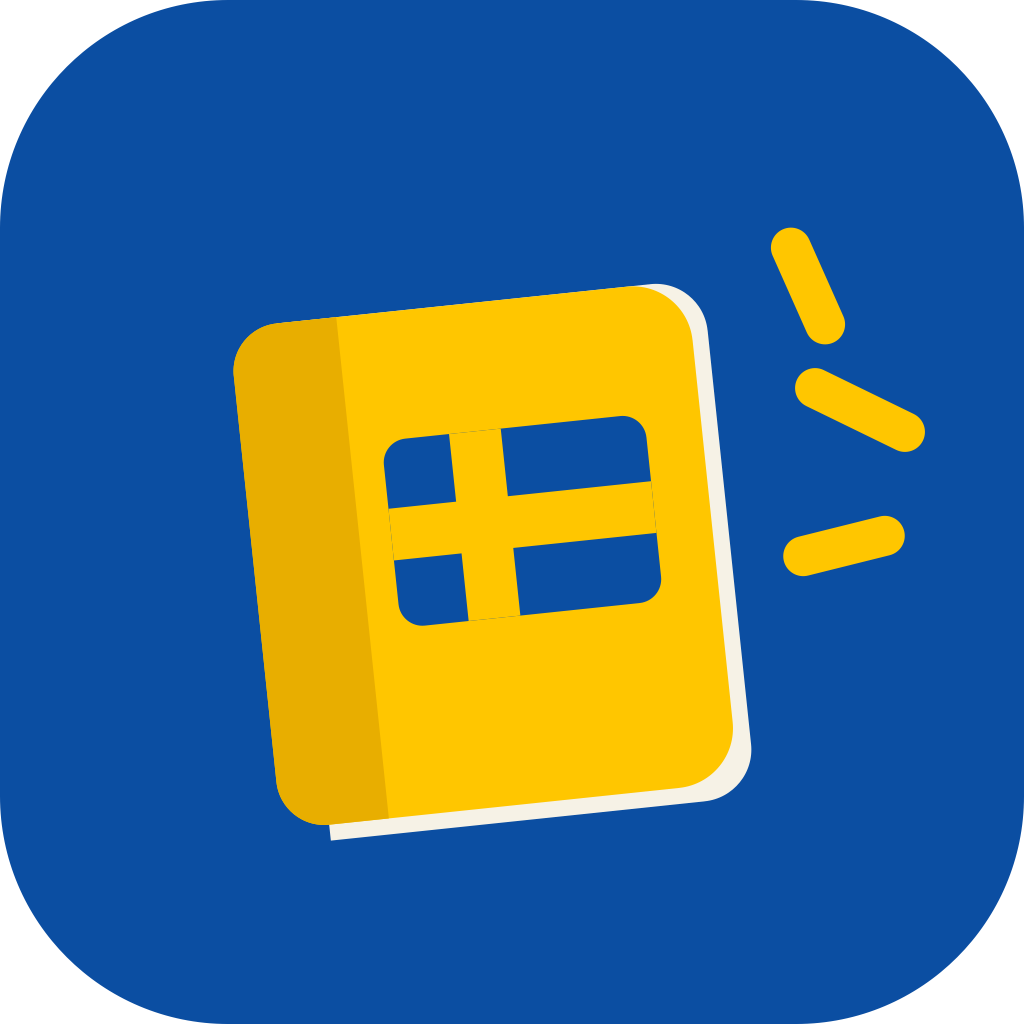
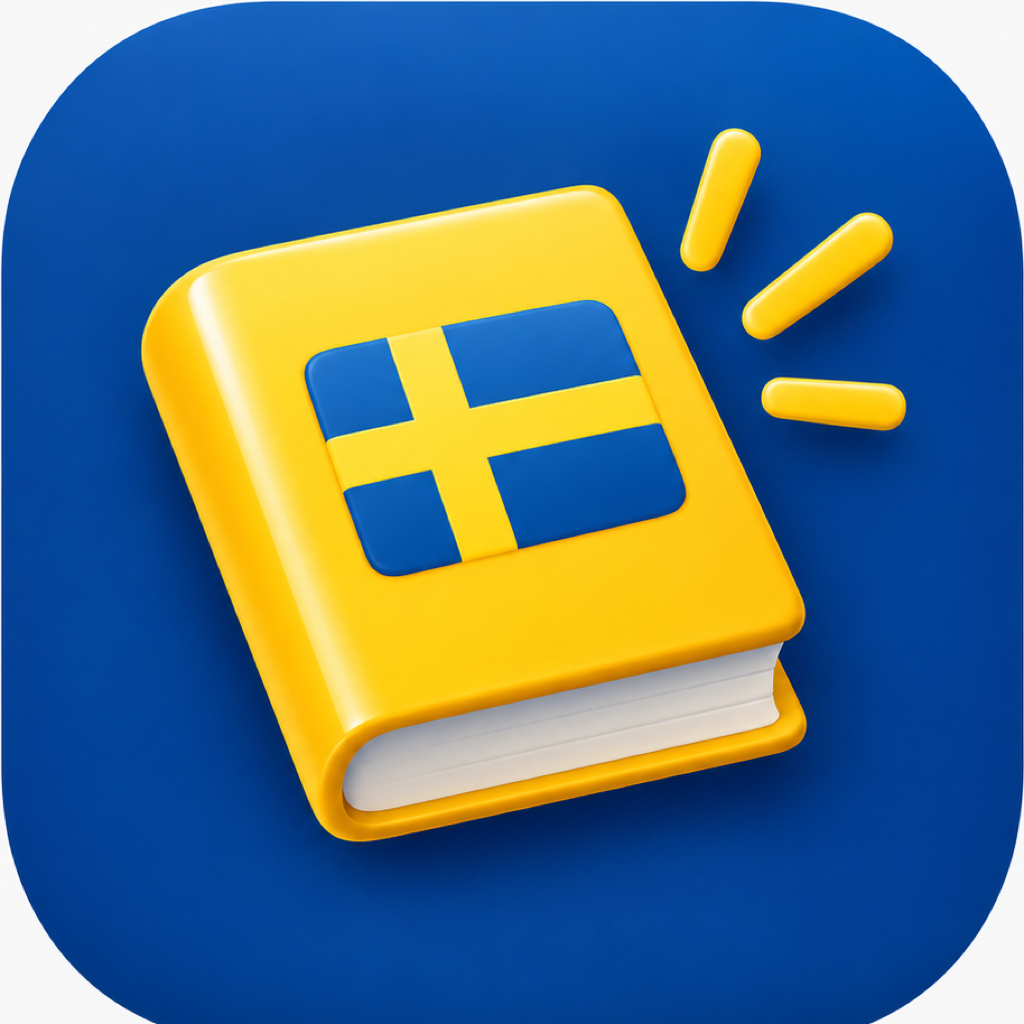
Abisanakirja: oikea ikoni, sovelluksen nimi ja ruotsin aantamisen korjaus

diff --git a/index.html b/index.html
@@ -5,16 +5,16 @@
 <meta name="viewport" content="width=device-width, initial-scale=1, viewport-fit=cover">
 <meta name="theme-color" content="#f1f5fb" media="(prefers-color-scheme: light)">
 <meta name="theme-color" content="#04203f" media="(prefers-color-scheme: dark)">
-<title>Ruotsin sanasto</title>
+<title>Abisanakirja</title>
 <link rel="manifest" href="manifest.webmanifest">
-<link rel="icon" href="ikoni.svg" type="image/svg+xml">
 <link rel="icon" href="ikoni-64-v1.png" sizes="64x64" type="image/png">
+<link rel="icon" href="ikoni-192-v1.png" sizes="192x192" type="image/png">
 <!-- Safari välimuistittaa kotinäytön ikonin tiedostonimen mukaan eikä huomaa
      sisällön muuttumista. Kun ikoni vaihdetaan, nosta versionumero näissä
      nimissä, manifest.webmanifest-tiedostossa ja tyokalut/tee_ikonit.sh:ssä. -->
 <link rel="apple-touch-icon" href="ikoni-180-v1.png">
 <meta name="apple-mobile-web-app-capable" content="yes">
-<meta name="apple-mobile-web-app-title" content="Ruotsi">
+<meta name="apple-mobile-web-app-title" content="Abisanakirja">
 <meta name="apple-mobile-web-app-status-bar-style" content="black-translucent">
 <style>
 /* ==========================================================================
@@ -779,7 +779,7 @@ const oletusEdistyminen = () => ({
   versio: 1,
   kortit: {},
   virheloki: [],
-  asetukset: { aani: true, suodatin: null, naytaLuokka: true },
+  asetukset: { aani: true, aaninimi: null, suodatin: null, naytaLuokka: true },
   istunto: { paiva: null, maara: 0 },
 });
 
@@ -1827,32 +1827,64 @@ function harjoitusNakyma(tehtava, indeksi, kokonais, otsikko, onJatka, onTulos) 
 /* ==========================================================================
    11. Ääntäminen
    ========================================================================== */
-/* Pelkkä lang = "sv-SE" ei riitä: ilman nimettyä ääntä selain käyttää
-   järjestelmän oletusta, joka lausuu ruotsin suomalaisittain. Haetaan ruotsin
-   ääni erikseen, ja kerrotaan asetuksissa jos sitä ei ole asennettuna. */
+/* Ruotsin ääntäminen.
+
+   Pelkkä lang = "sv-SE" ei riitä: ilman nimettyä ääntä selain käyttää
+   järjestelmän oletusta, joka tällä koneella on suomalainen. Kolme muutakin
+   asiaa kaataa äänivalinnan käytännössä:
+
+   1. cancel() ja speak() samalla tikillä – WebKit pudottaa uuden lausuman
+      äänivalinnan ja käyttää oletusta. Uusi lausuma siirretään omalle tikilleen.
+   2. lang, joka ei täsmää valitun äänen kanssa – asetetaan lang aina äänestä.
+   3. äänilista, joka ei ollut vielä valmis sivun latautuessa – ääni haetaan
+      uudestaan jokaisella puhekerralla, ei vain kerran käynnistyksessä. */
 let ruotsinAani = null;
+
+function ruotsinAanet() {
+  if (!window.speechSynthesis) return [];
+  return (speechSynthesis.getVoices() || []).filter((a) => /^sv([-_]|$)/i.test(a.lang));
+}
+
+function valitseAani(toivottuNimi) {
+  const aanet = ruotsinAanet();
+  if (toivottuNimi) {
+    const osuma = aanet.find((a) => a.name === toivottuNimi);
+    if (osuma) return osuma;
+  }
+  return aanet.find((a) => /^sv[-_]se$/i.test(a.lang)) || aanet[0] || null;
+}
+
 function paivitaAanet() {
-  if (!window.speechSynthesis) return;
-  const aanet = speechSynthesis.getVoices() || [];
-  ruotsinAani =
-    aanet.find((a) => /^sv[-_]se$/i.test(a.lang)) ||
-    aanet.find((a) => /^sv([-_]|$)/i.test(a.lang)) ||
-    null;
+  ruotsinAani = valitseAani(edistyminen.asetukset.aaninimi);
 }
 if (window.speechSynthesis) {
   paivitaAanet();
   speechSynthesis.addEventListener("voiceschanged", paivitaAanet);
 }
 
+let puhuAjastin = null;
 function puhu(teksti) {
   if (!window.speechSynthesis) return;
   try {
-    speechSynthesis.cancel();
-    const puhe = new SpeechSynthesisUtterance(teksti);
-    puhe.lang = "sv-SE";
-    if (ruotsinAani) puhe.voice = ruotsinAani;
-    puhe.rate = 0.92;
-    speechSynthesis.speak(puhe);
+    paivitaAanet();
+    clearTimeout(puhuAjastin);
+    const aloita = () => {
+      const puhe = new SpeechSynthesisUtterance(teksti);
+      if (ruotsinAani) {
+        puhe.voice = ruotsinAani;
+        puhe.lang = ruotsinAani.lang;
+      } else {
+        puhe.lang = "sv-SE";
+      }
+      puhe.rate = 0.92;
+      speechSynthesis.speak(puhe);
+    };
+    if (speechSynthesis.speaking || speechSynthesis.pending) {
+      speechSynthesis.cancel();
+      puhuAjastin = setTimeout(aloita, 70);
+    } else {
+      aloita();
+    }
   } catch (virhe) { /* ääni ei ole koskaan välttämätön */ }
 }
 function aaninappi(teksti) {
@@ -2308,11 +2340,38 @@ function avaaAsetukset() {
         "Ääntämisnappi sanojen vieressä", null,
         edistyminen.asetukset.aani,
         (arvo) => { edistyminen.asetukset.aani = arvo; tallenna(); piirra(); }));
-      lisaa(sisus, el("p", "t-pieni haalea", ruotsinAani
-        ? "Ruotsin ääni: " + ruotsinAani.name
-        : "Ruotsin ääntä ei ole asennettuna, joten lausuminen menee suomalaisittain. " +
+      const aanet = ruotsinAanet();
+      if (aanet.length) {
+        const valinta = el("div", "pino-tiivis");
+        lisaa(valinta, el("p", "t-nano haalein", "RUOTSIN ÄÄNI"));
+        const valikko = el("select", "kentta");
+        for (const aani of aanet) {
+          const kohta = el("option", null, aani.name + " (" + aani.lang + ")");
+          kohta.value = aani.name;
+          if (ruotsinAani && aani.name === ruotsinAani.name) kohta.selected = true;
+          lisaa(valikko, kohta);
+        }
+        valikko.addEventListener("change", () => {
+          edistyminen.asetukset.aaninimi = valikko.value;
+          paivitaAanet();
+          tallenna();
+          puhu("Jag talar svenska");
+        });
+        lisaa(valinta, valikko);
+        lisaa(valinta, nappi("Kokeile ääntä", "leve", () => puhu("Jag undviker att svara")));
+        lisaa(valinta, el("p", "t-pieni haalea",
+          aanet.length > 1
+            ? "Useampi ruotsin ääni asennettuna. Valitse se, joka kuulostaa parhaalta."
+            : "Vain yksi ruotsin ääni asennettuna. Parempilaatuisia saa macOS:n " +
+              "Järjestelmäasetukset → Käyttöapu → Puhuttu sisältö → Järjestelmän ääni → " +
+              "Hallitse ääniä → Ruotsi."));
+        lisaa(sisus, valinta);
+      } else {
+        lisaa(sisus, el("p", "t-pieni haalea",
+          "Ruotsin ääntä ei ole asennettuna, joten lausuminen menee suomalaisittain. " +
           "macOS: Järjestelmäasetukset → Käyttöapu → Puhuttu sisältö → Järjestelmän ääni → " +
-          "Hallitse ääniä → Ruotsi."));
+          "Hallitse ääniä → Ruotsi. iOS: Asetukset → Käyttöapu → Puhuttu sisältö → Äänet → Ruotsi."));
+      }
     }
 
     /* Varmuuskopio */
@@ -2602,7 +2661,6 @@ fetch("sanasto.json")
       if (VALILEHDET.some((v) => v.id === tallennettu)) valilehti = tallennettu;
     } catch (virhe) { /* ei kriittinen */ }
 
-    document.title = data.otsikko;
     piirra();
   })
   .catch((virhe) => {

diff --git a/README.md b/README.md
@@ -1,4 +1,4 @@
-# Ruotsin sanasto
+# Abisanakirja
 
 Sanaston opiskelusovellus keskipitkän ruotsin ylioppilaskoetta varten.
 Rakennetaan `SPEC.md`:n mukaan. Ei palvelinta, ei tunnuksia, ei build-vaihetta.
@@ -139,9 +139,9 @@ Kotinäytön ikoni tehdään yhdestä lähdekuvasta:
 sh "tyokalut/tee_ikonit.sh"
 ```
 
-Skripti lukee `ikoni-lahde.png`:n (neliö, vähintään 1024 × 1024) ja tekee
-kaikki koot. Repossa on tällä hetkellä väliaikainen ikoni, joka on renderöity
-`ikoni.svg`:stä – korvaa `ikoni-lahde.png` oikealla kuvalla ja aja skripti.
+Skripti lukee `ikoni-lahde.png`:n ja tekee kaikki koot. Lähdekuvan on oltava
+**neliö, jossa ikoni ulottuu reunoihin asti** – iOS lisää oman pyöristyksensä
+ja varjonsa, joten kuvassa ei saa olla omaa kehystä tai marginaalia.
 
 > **Safari välimuistittaa kotinäytön ikonin tiedostonimen mukaan** eikä huomaa
 > sisällön muuttumista. Kun ikoni vaihdetaan, nosta versionumero (`v1` → `v2`)
@@ -149,9 +149,19 @@ kaikki koot. Repossa on tällä hetkellä väliaikainen ikoni, joka on renderöi
 
 ## Ääntäminen
 
-Pelkkä `lang: "sv-SE"` ei riitä – ilman nimettyä ääntä selain lausuu ruotsin
-suomalaisittain. Sovellus hakee ruotsinkielisen äänen erikseen ja kertoo
-asetuksissa, jos sitä ei ole asennettuna.
+Ruotsin ääntäminen kaatuu neljästä eri syystä, ja kaikki neljä on hoidettu:
+
+1. **Pelkkä `lang: "sv-SE"`** antaa selaimen valita oletusäänen, joka on tällä
+   koneella suomalainen (Satu). Ääni haetaan nimeltä.
+2. **`cancel()` ja `speak()` samalla tikillä** – WebKit pudottaa uuden lausuman
+   äänivalinnan. Uusi lausuma siirretään omalle tikilleen.
+3. **`lang`, joka ei täsmää valitun äänen kanssa** – `lang` asetetaan äänen omasta
+   `lang`-kentästä, ei kovakoodattuna.
+4. **Äänilista, joka ei ollut valmis sivun latautuessa** – ääni haetaan uudestaan
+   jokaisella puhekerralla, ei vain käynnistyksessä.
+
+Asetuksissa voi valita äänen, jos niitä on useampi, ja kokeilla sitä napista.
+Jos ruotsin ääntä ei ole lainkaan, asetukset kertoo mistä sen asentaa.
 
 ## Tilanne
 
